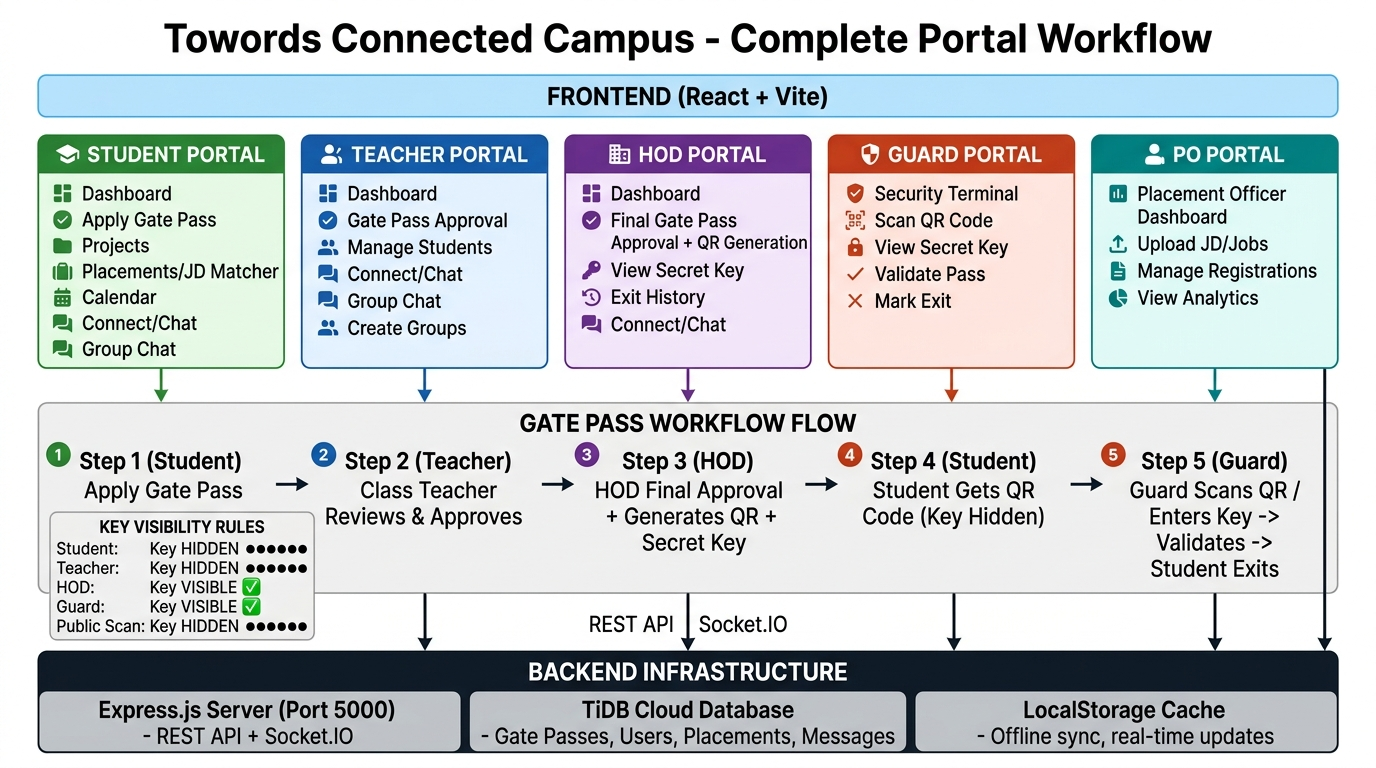
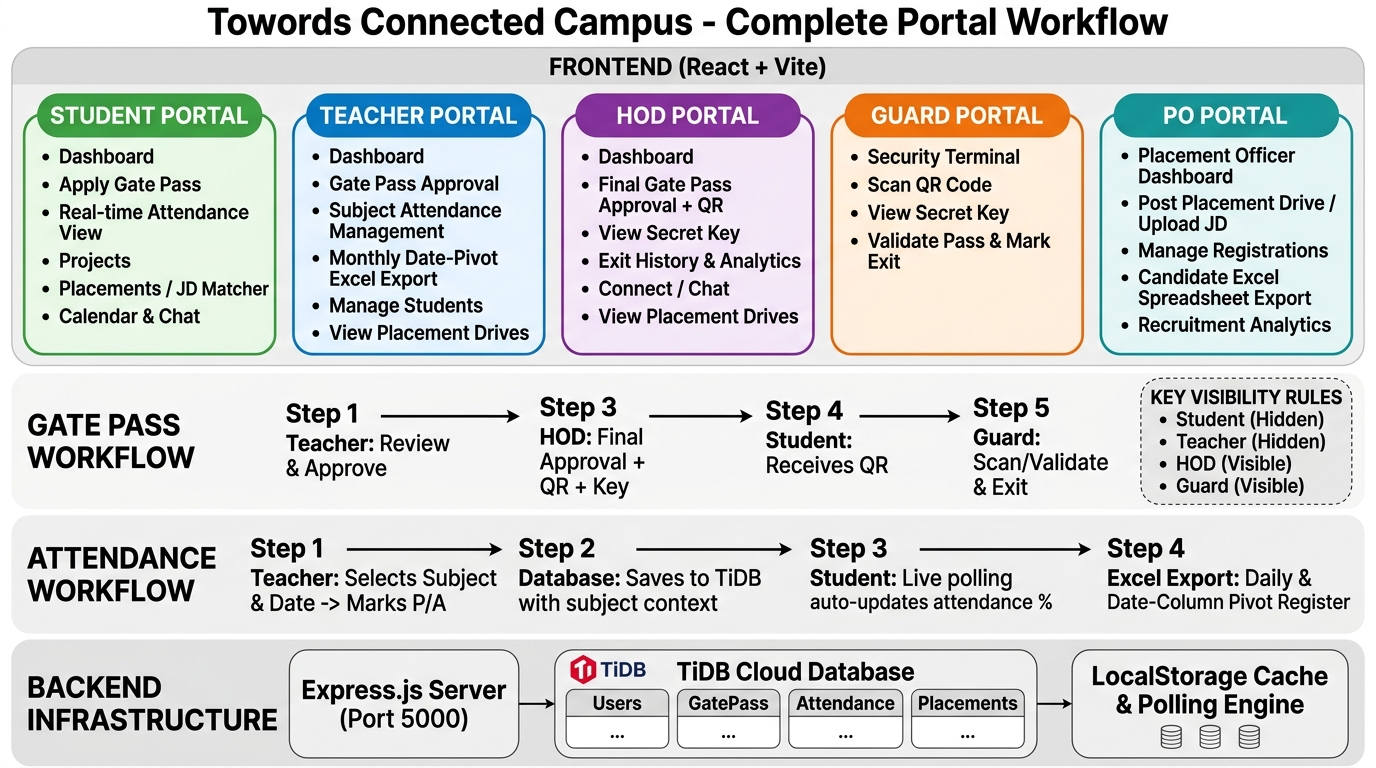
docs: update campus portal workflow image in repo and README

diff --git a/README.md b/README.md
@@ -21,6 +21,8 @@ Student · Class Teacher · HOD · Gate Security · Placement Officer
 
 ---
 
+![Towords Connected Campus - Complete Portal Workflow](./campus_portal_architecture.jpg)
+
 ## Why this exists
 
 Most campuses run on the same disconnected paper trail: gate passes signed by hand across two offices, placement drives announced over WhatsApp, resumes screened one by one, and no shared record of what a student has actually built or achieved. **Towards Connected Campus** replaces that trail with one platform — five role-specific views over one shared source of truth, with AI doing the screening work a human would otherwise do manually.
